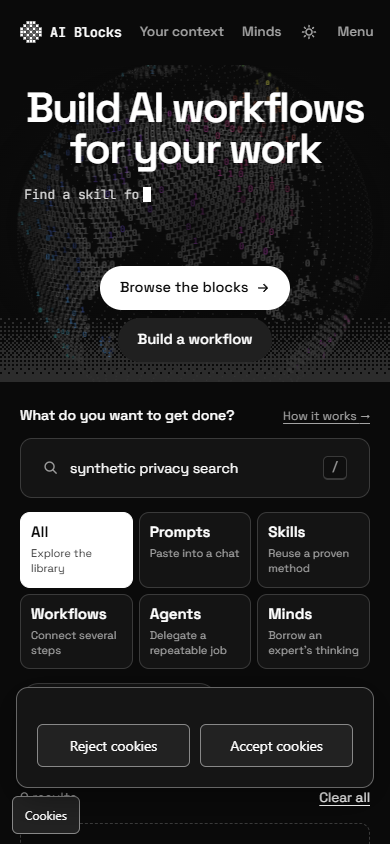
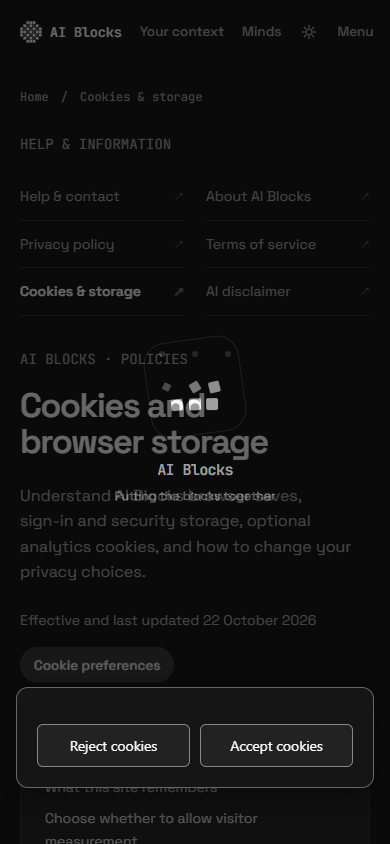
Remove floating cookie choices control

diff --git a/site/public/analytics-privacy.html b/site/public/analytics-privacy.html
@@ -1,2 +1,2 @@
 <!doctype html>
-<html lang="en"><head><meta charset="utf-8"><meta name="viewport" content="width=device-width, initial-scale=1"><title>Visitor analytics choices | AI Blocks</title><meta name="robots" content="noindex"><link rel="canonical" href="https://useaiblocks.com/cookies"><script defer src="/analytics.js"></script><style>body{font:17px/1.65 system-ui,sans-serif;background:#111;color:#eee;max-width:760px;margin:60px auto;padding:0 24px 120px}a{color:#b6e477}h1{line-height:1.2}</style></head><body><main><a href="/">AI Blocks</a><h1>Visitor analytics choices</h1><p>Updated 22 October 2026. Kevin Mark operates AI Blocks in India. Contact <a href="mailto:hello@useaiblocks.com">hello@useaiblocks.com</a> about privacy or data requests.</p><p>Optional measurement starts only after you select <strong>Allow analytics</strong>. Declining keeps optional Google Analytics and Microsoft Clarity scripts from loading. You can change your choice using <strong>Analytics choices</strong> at the bottom of any page. We remember the choice on this device for 6 months. Browser Do Not Track and Global Privacy Control signals disable optional tracking.</p><h2>What each service measures</h2><p>Google Analytics 4 measures visits to public pages, page paths and basic device and engagement information. Microsoft Clarity provides heatmaps and masked session recordings of clicks and scrolling on public pages. Recording stops before search input and private app flows; it resumes only in a new eligible page visit. These services receive technical information, including network information such as your IP address, when their scripts load. Data is processed by Google and Microsoft under their own policies, which may involve processing outside your country.</p><p>We do not send account identifiers, email addresses, form contents, saved business context, workflow requests or private space links as analytics events. Tracking is excluded from private application routes. Query strings, URL fragments and incoming referrers are excluded from Google page-view events. Clarity masks page text and inputs. We keep advertising consent denied and disable Google signals and advertising personalization.</p><h2>Cookies and retention</h2><p>After opt-in, Google may set _ga cookies to distinguish visits and Clarity may set _clck and _clsk cookies. Declining later revokes consent, removes these first-party measurement cookies and reloads the page. Previously collected data remains subject to provider retention and deletion controls. Google event-data retention is configured in the property; Clarity retention depends on the recording type and service settings. Contact us for a data request. Necessary sign-in, security and saved-work storage are separate from this optional choice.</p><p><a href="/privacy">Privacy policy</a> · <a href="/cookies">Cookies and storage</a> · <a href="https://policies.google.com/privacy">Google privacy policy</a> · <a href="https://privacy.microsoft.com/privacystatement">Microsoft privacy statement</a> · <a href="https://learn.microsoft.com/en-us/clarity/setup-and-installation/privacy-disclosure">Clarity privacy disclosure</a></p></main></body></html>
+<html lang="en"><head><meta charset="utf-8"><meta name="viewport" content="width=device-width, initial-scale=1"><title>Visitor analytics choices | AI Blocks</title><meta name="robots" content="noindex"><link rel="canonical" href="https://useaiblocks.com/cookies"><script defer src="/analytics.js"></script><style>body{font:17px/1.65 system-ui,sans-serif;background:#111;color:#eee;max-width:760px;margin:60px auto;padding:0 24px 120px}a{color:#b6e477}h1{line-height:1.2}</style></head><body><main><a href="/">AI Blocks</a><h1>Visitor analytics choices</h1><p>Updated 22 October 2026. Kevin Mark operates AI Blocks in India. Contact <a href="mailto:hello@useaiblocks.com">hello@useaiblocks.com</a> about privacy or data requests.</p><p>Optional measurement starts only after you select <strong>Accept cookies</strong>. Declining keeps optional Google Analytics and Microsoft Clarity scripts from loading. You can change your choice using <strong>Cookie preferences</strong> on the <a href="/cookies">Cookies page</a>. We remember the choice on this device for 6 months. Browser Do Not Track and Global Privacy Control signals disable optional tracking.</p><h2>What each service measures</h2><p>Google Analytics 4 measures visits to public pages, page paths and basic device and engagement information. Microsoft Clarity provides heatmaps and masked session recordings of clicks and scrolling on public pages. Recording stops before search input and private app flows; it resumes only in a new eligible page visit. These services receive technical information, including network information such as your IP address, when their scripts load. Data is processed by Google and Microsoft under their own policies, which may involve processing outside your country.</p><p>We do not send account identifiers, email addresses, form contents, saved business context, workflow requests or private space links as analytics events. Tracking is excluded from private application routes. Query strings, URL fragments and incoming referrers are excluded from Google page-view events. Clarity masks page text and inputs. We keep advertising consent denied and disable Google signals and advertising personalization.</p><h2>Cookies and retention</h2><p>After opt-in, Google may set _ga cookies to distinguish visits and Clarity may set _clck and _clsk cookies. Declining later revokes consent, removes these first-party measurement cookies and reloads the page. Previously collected data remains subject to provider retention and deletion controls. Google event-data retention is configured in the property; Clarity retention depends on the recording type and service settings. Contact us for a data request. Necessary sign-in, security and saved-work storage are separate from this optional choice.</p><p><a href="/privacy">Privacy policy</a> · <a href="/cookies">Cookies and storage</a> · <a href="https://policies.google.com/privacy">Google privacy policy</a> · <a href="https://privacy.microsoft.com/privacystatement">Microsoft privacy statement</a> · <a href="https://learn.microsoft.com/en-us/clarity/setup-and-installation/privacy-disclosure">Clarity privacy disclosure</a></p></main></body></html>

diff --git a/site/src/InfoPage.tsx b/site/src/InfoPage.tsx
@@ -21,6 +21,7 @@ export default function InfoPage({ path, toast }: { path: string; toast: (messag
       <article className="info-article">
         <header className="info-heading"><p className="mono small">AI BLOCKS · {path === "/support" ? "SUPPORT" : path === "/about" ? "ABOUT" : "POLICIES"}</p><h1>{page.title}</h1><p className="lede">{page.description}</p><p className="small">{path === "/support" || path === "/about" ? "Updated" : "Effective and last updated"} {POLICY_DATE}</p></header>
         {path === "/support" && <div className="info-contact"><div><span className="mono small">SUPPORT EMAIL</span><a href={emailLink()}>{SUPPORT_EMAIL}</a><p className="small">Kevin Mark · India</p></div><button type="button" className="btn btn-dark btn-sm" onClick={() => void copyEmail()}>Copy email address</button></div>}
+        {path === "/cookies" && <p><button type="button" className="btn btn-dark btn-sm" onClick={() => document.dispatchEvent(new Event("abb:cookie-settings"))}>Cookie preferences</button></p>}
         <nav className="info-contents" aria-label="On this page"><span className="mono small">ON THIS PAGE</span>{page.sections.map(section => <a key={section.id} href={`#${section.id}`}>{section.title}</a>)}</nav>
         {page.sections.map(section => <section className="info-section" id={section.id} key={section.id} aria-labelledby={`info-${section.id}`}><h2 id={`info-${section.id}`}>{section.title}</h2>{section.paragraphs.map(text => <p key={text}>{text}</p>)}{section.items && <ul>{section.items.map(item => <li key={item}>{item}</li>)}</ul>}{section.links && <div className="info-links">{section.links.map(link => link.href.startsWith("/") ? <Link key={link.href} to={link.href}>{link.label} <span aria-hidden="true">→</span></Link> : <a key={link.href} href={link.href}>{link.label} <span aria-hidden="true">↗</span></a>)}</div>}</section>)}
         <div className="info-end"><h2>Need a hand?</h2><p>Email <a href={emailLink()}>{SUPPORT_EMAIL}</a> with the page address and what you need help with.</p></div>

diff --git a/site/public/analytics.js b/site/public/analytics.js
@@ -111,10 +111,10 @@
   }
   function boot() {
     if (!allowedHost) return;
+    document.addEventListener('abb:cookie-settings', preferences);
     const style = document.createElement('style');
     style.textContent = '#abb-analytics-choice{position:fixed;bottom:56px;left:16px;z-index:2147483000;box-sizing:border-box;width:min(440px,calc(100vw - 32px));max-height:75vh;overflow:auto;background:#151515;color:#f6f6f6;border:1px solid #666;border-radius:12px;padding:20px;box-shadow:0 8px 32px #0006;font:14px/1.5 system-ui,sans-serif}#abb-analytics-choice h2{font-size:18px;margin:0 0 8px}#abb-analytics-choice p{margin:0 0 12px}#abb-analytics-choice a{color:#b6e477;text-decoration:underline}.abb-analytics-actions{display:flex;gap:10px;margin-top:16px}.abb-analytics-actions button,#abb-analytics-settings{font:inherit;cursor:pointer;border:1px solid #888;border-radius:6px;background:#222;color:#fff;padding:10px 12px}.abb-analytics-actions button{flex:1}.abb-analytics-actions button:disabled{opacity:.5;cursor:default}#abb-analytics-settings{position:fixed;bottom:10px;left:12px;z-index:2147482999;font:12px system-ui,sans-serif}#abb-analytics-choice button:focus-visible,#abb-analytics-settings:focus-visible,#abb-analytics-choice a:focus-visible{outline:3px solid #b6e477;outline-offset:3px}';
     document.head.appendChild(style);
-    const settings = document.createElement('button'); settings.id = 'abb-analytics-settings'; settings.type = 'button'; settings.textContent = 'Cookies'; settings.addEventListener('click', preferences); document.body.appendChild(settings);
     if (!choice && !optedOut && safeHere()) preferences();
     if (optedOut) forgetCookies(); else start();
   }
